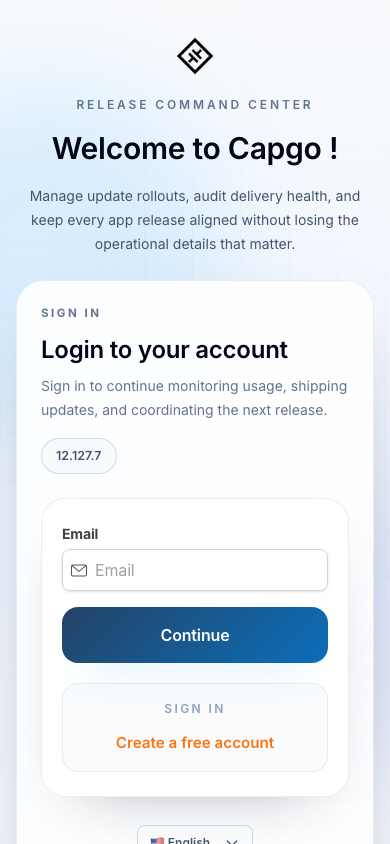
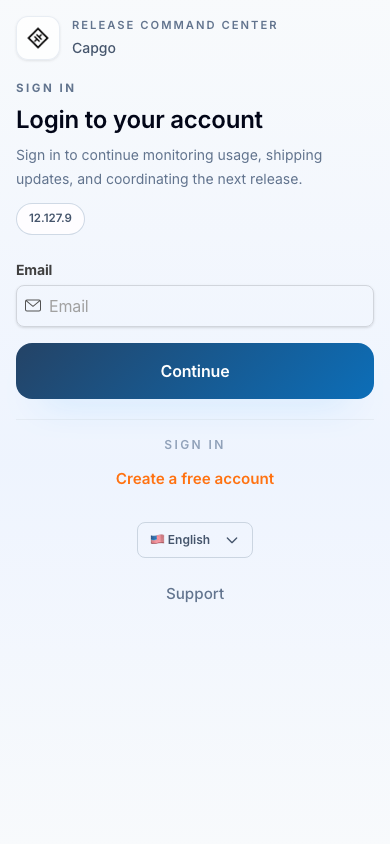
fix(frontend): flatten mobile auth layout

diff --git a/src/pages/login.vue b/src/pages/login.vue
@@ -65,18 +65,19 @@ const loginHeroHighlights = computed(() => [
   },
 ])
 const authCardShellClass = [
-  'rounded-[1.75rem] border border-slate-200/75 p-6 backdrop-blur-[18px] shadow-[0_34px_80px_-42px_rgba(15,23,42,0.5)]',
-  'bg-[linear-gradient(180deg,rgba(255,255,255,0.94)_0%,rgba(255,255,255,0.84)_100%)]',
-  'dark:border-slate-600/70 dark:bg-[linear-gradient(180deg,rgba(15,23,42,0.88)_0%,rgba(15,23,42,0.7)_100%)]',
-  'sm:p-7',
+  'rounded-none border-0 bg-transparent p-0 shadow-none backdrop-blur-0',
+  'sm:rounded-[1.75rem] sm:border sm:border-slate-200/75 sm:bg-[linear-gradient(180deg,rgba(255,255,255,0.94)_0%,rgba(255,255,255,0.84)_100%)]',
+  'sm:p-7 sm:shadow-[0_34px_80px_-42px_rgba(15,23,42,0.5)] sm:backdrop-blur-[18px]',
+  'sm:dark:border-slate-600/70 sm:dark:bg-[linear-gradient(180deg,rgba(15,23,42,0.88)_0%,rgba(15,23,42,0.7)_100%)]',
 ].join(' ')
-const authCardHeaderClass = 'flex flex-col gap-4 sm:flex-row sm:items-start sm:justify-between'
+const authCardHeaderClass = 'flex flex-col gap-3 sm:flex-row sm:items-start sm:justify-between'
 const authStepCardClass = [
-  'overflow-hidden rounded-3xl border border-slate-200/75 bg-white/88 shadow-[0_26px_60px_-40px_rgba(15,23,42,0.42)]',
-  'dark:border-slate-600/70 dark:bg-slate-950/80',
+  'min-w-0',
+  'sm:overflow-hidden sm:rounded-3xl sm:border sm:border-slate-200/75 sm:bg-white/88 sm:shadow-[0_26px_60px_-40px_rgba(15,23,42,0.42)]',
+  'sm:dark:border-slate-600/70 sm:dark:bg-slate-950/80',
 ].join(' ')
-const authCardBodyClass = 'px-5 py-6 sm:p-7'
-const authPanelClass = 'rounded-2xl border border-slate-200/80 bg-slate-50/80 px-4 py-4 text-center dark:border-slate-700 dark:bg-slate-900/70'
+const authCardBodyClass = 'py-1 sm:p-7'
+const authPanelClass = 'border-t border-slate-200/80 pt-4 text-center dark:border-slate-700 sm:rounded-2xl sm:border sm:bg-slate-50/80 sm:px-4 sm:py-4 sm:dark:bg-slate-900/70'
 const authPrimaryButtonClass = [
   'inline-flex w-full items-center justify-center gap-2 rounded-2xl px-4 py-4 text-base font-semibold text-white',
   'bg-[linear-gradient(135deg,rgba(36,67,102,1)_0%,rgba(12,110,184,1)_100%)] shadow-[0_20px_38px_-26px_rgba(17,158,255,0.85)]',
@@ -610,9 +611,9 @@ onMounted(checkLogin)
 
 <template>
   <section
-    class="relative flex min-h-full w-full overflow-y-auto bg-[linear-gradient(180deg,rgba(248,250,252,0.98)_0%,rgba(238,244,255,0.92)_55%,rgba(248,250,252,0.98)_100%)] dark:bg-[linear-gradient(180deg,rgba(15,23,42,0.98)_0%,rgba(20,29,53,0.96)_52%,rgba(15,23,42,0.98)_100%)]"
+    class="relative flex h-dvh min-h-dvh w-full overflow-y-auto bg-[linear-gradient(180deg,rgba(248,250,252,0.98)_0%,rgba(238,244,255,0.9)_55%,rgba(248,250,252,0.98)_100%)] dark:bg-[linear-gradient(180deg,rgba(15,23,42,0.98)_0%,rgba(20,29,53,0.96)_52%,rgba(15,23,42,0.98)_100%)]"
   >
-    <div class="pointer-events-none absolute inset-0 overflow-hidden" aria-hidden="true">
+    <div class="pointer-events-none absolute inset-0 hidden overflow-hidden lg:block" aria-hidden="true">
       <div class="absolute top-[10%] -left-32 h-[22rem] w-[22rem] rounded-full bg-[rgba(17,158,255,0.22)] opacity-55 blur-[52px]" />
       <div class="absolute right-[-7rem] bottom-[8%] h-[18rem] w-[18rem] rounded-full bg-[rgba(104,118,225,0.18)] opacity-55 blur-[52px]" />
       <div
@@ -620,7 +621,7 @@ onMounted(checkLogin)
       />
     </div>
 
-    <div class="relative mx-auto grid w-full max-w-7xl gap-8 px-4 py-8 sm:px-6 lg:min-h-full lg:grid-cols-[minmax(0,1.08fr)_minmax(24rem,30rem)] lg:items-center lg:px-8 lg:py-10">
+    <div class="relative mx-auto grid w-full max-w-7xl gap-6 px-4 py-[max(1rem,env(safe-area-inset-top))] pb-[max(1rem,env(safe-area-inset-bottom))] sm:px-6 sm:py-8 lg:min-h-dvh lg:grid-cols-[minmax(0,1.08fr)_minmax(24rem,30rem)] lg:items-center lg:gap-8 lg:px-8 lg:py-10">
       <section class="hidden lg:block">
         <div class="max-w-2xl">
           <div class="inline-flex flex-wrap gap-2">
@@ -668,18 +669,19 @@ onMounted(checkLogin)
         </div>
       </section>
 
-      <div class="relative mx-auto w-full max-w-lg lg:max-w-none">
-        <div class="mb-6 text-center lg:hidden">
-          <img src="/capgo.webp" alt="Capgo logo" class="mx-auto mb-4 h-12 w-12 rounded-sm invert dark:invert-0">
-          <p class="text-xs font-semibold tracking-[0.24em] text-slate-500 uppercase dark:text-slate-300">
-            {{ t('login-console-kicker') }}
-          </p>
-          <h1 class="mt-4 text-3xl font-semibold leading-tight text-slate-950 dark:text-white sm:text-4xl">
-            {{ t('welcome-to') }} <span class="font-prompt">Capgo</span> !
-          </h1>
-          <p class="mx-auto mt-4 max-w-md text-sm leading-6 text-slate-600 dark:text-slate-300 sm:text-base">
-            {{ t('login-console-description') }}
-          </p>
+      <div class="relative mx-auto flex w-full max-w-[calc(100vw-2rem)] flex-col sm:max-w-lg lg:block lg:max-w-none">
+        <div class="mb-5 flex items-center gap-3 lg:hidden">
+          <span class="inline-flex h-11 w-11 shrink-0 items-center justify-center rounded-xl border border-slate-200/80 bg-white/80 shadow-sm dark:border-slate-700 dark:bg-slate-900/70">
+            <img src="/capgo.webp" alt="Capgo logo" class="h-7 w-7 rounded-sm invert dark:invert-0">
+          </span>
+          <div class="min-w-0">
+            <p class="text-[0.7rem] font-semibold tracking-[0.18em] text-slate-500 uppercase dark:text-slate-300">
+              {{ t('login-console-kicker') }}
+            </p>
+            <p class="mt-1 truncate text-sm font-medium text-slate-600 dark:text-slate-300">
+              <span class="font-prompt">Capgo</span>
+            </p>
+          </div>
         </div>
 
         <div :class="authCardShellClass">
@@ -688,19 +690,19 @@ onMounted(checkLogin)
               <p class="text-[0.72rem] font-bold tracking-[0.22em] text-slate-500 uppercase dark:text-slate-400">
                 {{ t('login-auth-kicker') }}
               </p>
-              <h2 class="mt-3 text-2xl font-semibold text-slate-950 dark:text-white">
+              <h2 class="mt-2 text-2xl font-semibold leading-tight text-slate-950 dark:text-white sm:mt-3">
                 {{ t('login-to-your-account') }}
               </h2>
               <p class="mt-2 text-sm leading-6 text-slate-500 dark:text-slate-300">
                 {{ t('login-auth-description') }}
               </p>
             </div>
-            <span class="self-start rounded-full border border-slate-300/90 bg-slate-50/95 px-3.5 py-2 text-[0.78rem] font-semibold text-slate-600 dark:border-slate-600/90 dark:bg-slate-800/90 dark:text-slate-200">
+            <span class="self-start shrink-0 rounded-full border border-slate-300/90 bg-white/90 px-3 py-1.5 text-[0.72rem] font-semibold text-slate-600 dark:border-slate-600/90 dark:bg-slate-800/90 dark:text-slate-200 sm:bg-slate-50/95 sm:px-3.5 sm:py-2 sm:text-[0.78rem]">
               {{ version }}
             </span>
           </div>
 
-          <div class="relative mt-6">
+          <div class="relative mt-5 sm:mt-6">
             <div v-if="hasQuerySession" :class="authStepCardClass">
               <div class="space-y-4 text-slate-500 dark:text-slate-300" :class="authCardBodyClass">
                 <p class="text-sm">

diff --git a/src/components/auth/AuthPageShell.vue b/src/components/auth/AuthPageShell.vue
@@ -58,9 +58,9 @@ const heroHighlights = computed(() => props.heroHighlights ?? [
 
 <template>
   <section
-    class="relative flex min-h-screen w-full overflow-y-auto bg-[linear-gradient(180deg,rgba(248,250,252,0.98)_0%,rgba(238,244,255,0.92)_55%,rgba(248,250,252,0.98)_100%)] dark:bg-[linear-gradient(180deg,rgba(15,23,42,0.98)_0%,rgba(20,29,53,0.96)_52%,rgba(15,23,42,0.98)_100%)]"
+    class="relative flex h-dvh min-h-dvh w-full overflow-y-auto bg-[linear-gradient(180deg,rgba(248,250,252,0.98)_0%,rgba(238,244,255,0.9)_55%,rgba(248,250,252,0.98)_100%)] dark:bg-[linear-gradient(180deg,rgba(15,23,42,0.98)_0%,rgba(20,29,53,0.96)_52%,rgba(15,23,42,0.98)_100%)]"
   >
-    <div class="pointer-events-none absolute inset-0 overflow-hidden" aria-hidden="true">
+    <div class="pointer-events-none absolute inset-0 hidden overflow-hidden lg:block" aria-hidden="true">
       <div class="absolute top-[10%] -left-32 h-[22rem] w-[22rem] rounded-full bg-[rgba(17,158,255,0.22)] opacity-55 blur-[52px]" />
       <div class="absolute right-[-7rem] bottom-[8%] h-[18rem] w-[18rem] rounded-full bg-[rgba(104,118,225,0.18)] opacity-55 blur-[52px]" />
       <div
@@ -68,7 +68,7 @@ const heroHighlights = computed(() => props.heroHighlights ?? [
       />
     </div>
 
-    <div class="relative mx-auto grid w-full max-w-7xl gap-8 px-4 py-8 sm:px-6 lg:min-h-screen lg:grid-cols-[minmax(0,1.08fr)_minmax(24rem,30rem)] lg:items-center lg:px-8 lg:py-10 xl:grid-cols-[minmax(0,1.12fr)_minmax(24rem,32rem)]">
+    <div class="relative mx-auto grid w-full max-w-7xl gap-6 px-4 py-[max(1rem,env(safe-area-inset-top))] pb-[max(1rem,env(safe-area-inset-bottom))] sm:px-6 sm:py-8 lg:min-h-dvh lg:grid-cols-[minmax(0,1.08fr)_minmax(24rem,30rem)] lg:items-center lg:gap-8 lg:px-8 lg:py-10 xl:grid-cols-[minmax(0,1.12fr)_minmax(24rem,32rem)]">
       <section class="hidden lg:block">
         <div class="max-w-2xl">
           <div class="inline-flex flex-wrap gap-2">
@@ -116,21 +116,28 @@ const heroHighlights = computed(() => props.heroHighlights ?? [
         </div>
       </section>
 
-      <div class="relative mx-auto w-full min-w-0 max-w-[calc(100vw-2rem)]! lg:max-w-none!" :class="cardWidthClass">
-        <div class="mb-6 text-center lg:hidden">
-          <img src="/capgo.webp" alt="Capgo logo" class="mx-auto mb-4 h-12 w-12 rounded-sm invert dark:invert-0">
-          <p class="text-xs font-semibold tracking-[0.24em] text-slate-500 uppercase dark:text-slate-300">
-            {{ heroKickerValue }}
-          </p>
+      <div class="relative mx-auto flex w-full min-w-0 max-w-[calc(100vw-2rem)]! flex-col lg:block lg:max-w-none!" :class="cardWidthClass">
+        <div class="mb-5 flex items-center gap-3 lg:hidden">
+          <span class="inline-flex h-11 w-11 shrink-0 items-center justify-center rounded-xl border border-slate-200/80 bg-white/80 shadow-sm dark:border-slate-700 dark:bg-slate-900/70">
+            <img src="/capgo.webp" alt="Capgo logo" class="h-7 w-7 rounded-sm invert dark:invert-0">
+          </span>
+          <div class="min-w-0">
+            <p class="text-[0.7rem] font-semibold tracking-[0.18em] text-slate-500 uppercase dark:text-slate-300">
+              {{ heroKickerValue }}
+            </p>
+            <p class="mt-1 truncate text-sm font-medium text-slate-600 dark:text-slate-300">
+              Capgo
+            </p>
+          </div>
         </div>
 
-        <div class="rounded-[1.75rem] border border-slate-200/75 bg-[linear-gradient(180deg,rgba(255,255,255,0.94)_0%,rgba(255,255,255,0.84)_100%)] p-6 backdrop-blur-[18px] shadow-[0_34px_80px_-42px_rgba(15,23,42,0.5)] dark:border-slate-600/70 dark:bg-[linear-gradient(180deg,rgba(15,23,42,0.88)_0%,rgba(15,23,42,0.7)_100%)] sm:p-7">
-          <div class="flex flex-col gap-4 sm:flex-row sm:items-start sm:justify-between">
+        <div class="rounded-none border-0 bg-transparent p-0 shadow-none backdrop-blur-0 sm:rounded-[1.75rem] sm:border sm:border-slate-200/75 sm:bg-[linear-gradient(180deg,rgba(255,255,255,0.94)_0%,rgba(255,255,255,0.84)_100%)] sm:p-7 sm:shadow-[0_34px_80px_-42px_rgba(15,23,42,0.5)] sm:backdrop-blur-[18px] sm:dark:border-slate-600/70 sm:dark:bg-[linear-gradient(180deg,rgba(15,23,42,0.88)_0%,rgba(15,23,42,0.7)_100%)]">
+          <div class="flex flex-col gap-3 sm:flex-row sm:items-start sm:justify-between">
             <div>
               <p v-if="cardKicker" class="text-[0.72rem] font-bold tracking-[0.22em] text-slate-500 uppercase dark:text-slate-400">
                 {{ cardKicker }}
               </p>
-              <h2 class="mt-3 text-2xl font-semibold text-slate-950 dark:text-white">
+              <h2 class="mt-2 text-2xl font-semibold leading-tight text-slate-950 dark:text-white sm:mt-3">
                 {{ cardTitle }}
               </h2>
               <p v-if="cardDescription" class="mt-2 text-sm leading-6 text-slate-500 dark:text-slate-300">
@@ -139,13 +146,13 @@ const heroHighlights = computed(() => props.heroHighlights ?? [
             </div>
             <span
               v-if="badgeText"
-              class="self-start rounded-full border border-slate-300/90 bg-slate-50/95 px-3.5 py-2 text-[0.78rem] font-semibold text-slate-600 dark:border-slate-600/90 dark:bg-slate-800/90 dark:text-slate-200"
+              class="self-start shrink-0 rounded-full border border-slate-300/90 bg-white/90 px-3 py-1.5 text-[0.72rem] font-semibold text-slate-600 dark:border-slate-600/90 dark:bg-slate-800/90 dark:text-slate-200 sm:bg-slate-50/95 sm:px-3.5 sm:py-2 sm:text-[0.78rem]"
             >
               {{ badgeText }}
             </span>
           </div>
 
-          <div class="mt-6 text-slate-500 dark:text-slate-300">
+          <div class="mt-5 text-slate-500 dark:text-slate-300 sm:mt-6">
             <slot />
           </div>
         </div>

diff --git a/src/components/auth/pageStyles.ts b/src/components/auth/pageStyles.ts
@@ -26,6 +26,6 @@ export const authGhostButtonClass = [
   'focus-visible:outline focus-visible:outline-2 focus-visible:outline-offset-3 focus-visible:outline-[var(--color-azure-500)]',
 ].join(' ')
 
-export const authPanelClass = 'rounded-2xl border border-slate-200/80 bg-slate-50/80 px-4 py-4 text-center dark:border-slate-700 dark:bg-slate-900/70'
+export const authPanelClass = 'border-t border-slate-200/80 pt-4 text-center dark:border-slate-700 sm:rounded-2xl sm:border sm:bg-slate-50/80 sm:px-4 sm:py-4 sm:dark:bg-slate-900/70'
 
-export const authInsetCardClass = 'rounded-2xl border border-slate-200/80 bg-white/70 p-4 shadow-[0_18px_40px_-34px_rgba(15,23,42,0.45)] dark:border-slate-700/80 dark:bg-slate-950/55'
+export const authInsetCardClass = 'overflow-hidden rounded-xl sm:rounded-2xl sm:border sm:border-slate-200/80 sm:bg-white/70 sm:p-4 sm:shadow-[0_18px_40px_-34px_rgba(15,23,42,0.45)] sm:dark:border-slate-700/80 sm:dark:bg-slate-950/55'
